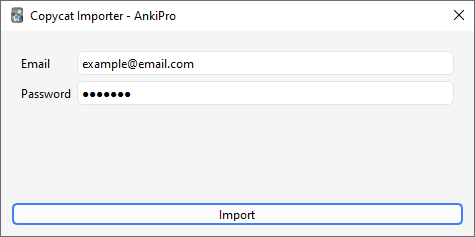
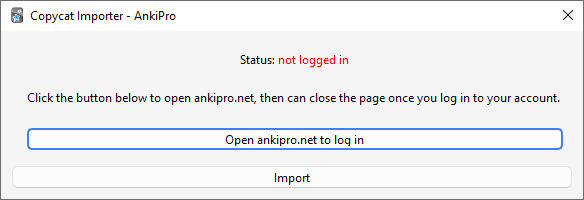
Update docs

diff --git a/ankiweb_page.html b/ankiweb_page.html
@@ -34,7 +34,7 @@ To prevent that, the add-on fills all empty fields with a non-breaking space.</l
 <b>AnkiPro</b>
 
 <p><img src="https://raw.githubusercontent.com/abdnh/anki-copycat-importer/master/images/ankipro.png" alt="AnkiPro Importer"></p>
-<p>The add-on works by downloading your decks from the AnkiPro site, so it needs your email and password. Go to <i>Tools &gt; Copycat Importer &gt; Import from AnkiPro</i> and enter your account details.</p>
+<p>The add-on works by downloading your decks from the AnkiPro site. Go to <i>Tools &gt; Copycat Importer &gt; Import from AnkiPro</i> and follow the instructions.</p>
 
 <b>Known Issues</b>
 

diff --git a/README.md b/README.md
@@ -38,7 +38,7 @@ If the button is greyed out, see [this](https://forums.ankiweb.net/t/copycat-imp
 
 ![AnkiPro Importer](images/ankipro.png)
 
-The add-on works by downloading your decks from the AnkiPro site, so it needs your email and password. Go to _Tools > Copycat Importer > Import from AnkiPro_ and enter your account details.
+The add-on works by downloading your decks from the AnkiPro site. Go to _Tools > Copycat Importer > Import from AnkiPro_ and follow the instructions.
 
 ### Known Issues
 
